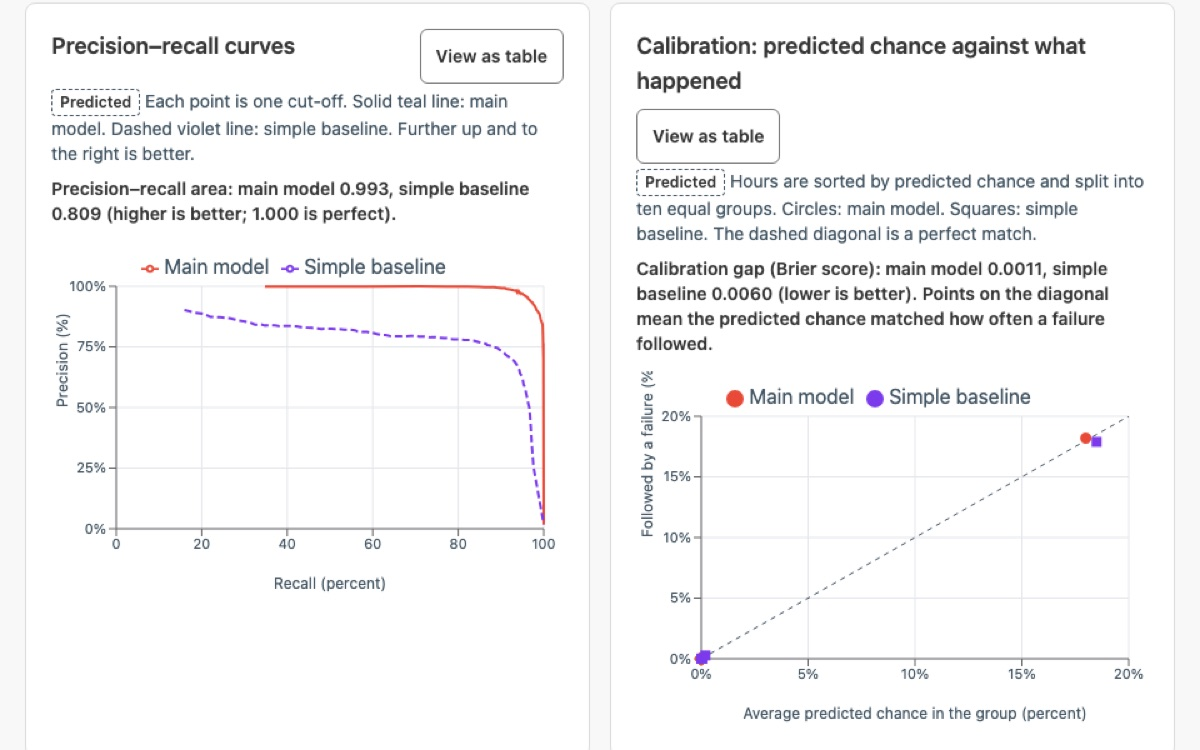
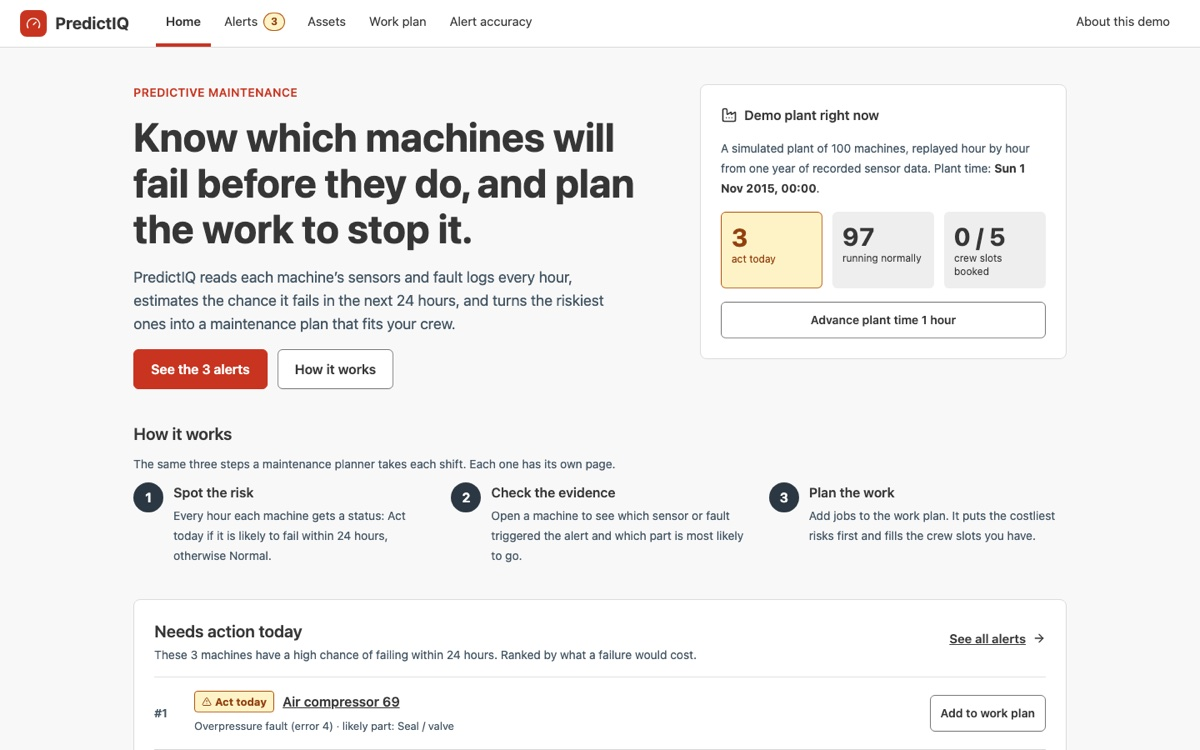
Use home page screenshot for PredictIQ

diff --git a/index.html b/index.html
@@ -193,7 +193,7 @@
     </div>
 
     <div class="project">
-      <a class="img" href="https://predictiq-demo.vercel.app/" aria-label="Open the PredictIQ demo"><img src="img/predictiq.jpg" alt="PredictIQ model performance charts comparing a main model with a simple baseline" loading="lazy"></a>
+      <a class="img" href="https://predictiq-demo.vercel.app/" aria-label="Open the PredictIQ demo"><img src="img/predictiq.jpg" alt="PredictIQ home page showing three machines that need action today in a simulated plant of 100 machines" loading="lazy"></a>
       <div class="info">
         <p class="overline">Side project · demo on sample data</p>
         <h3>PredictIQ</h3>
